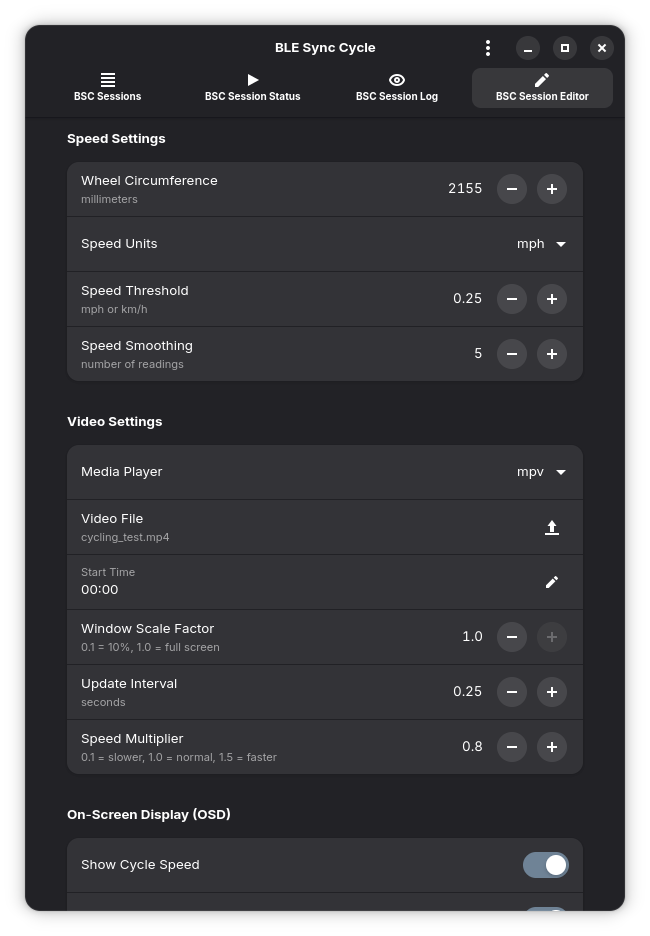
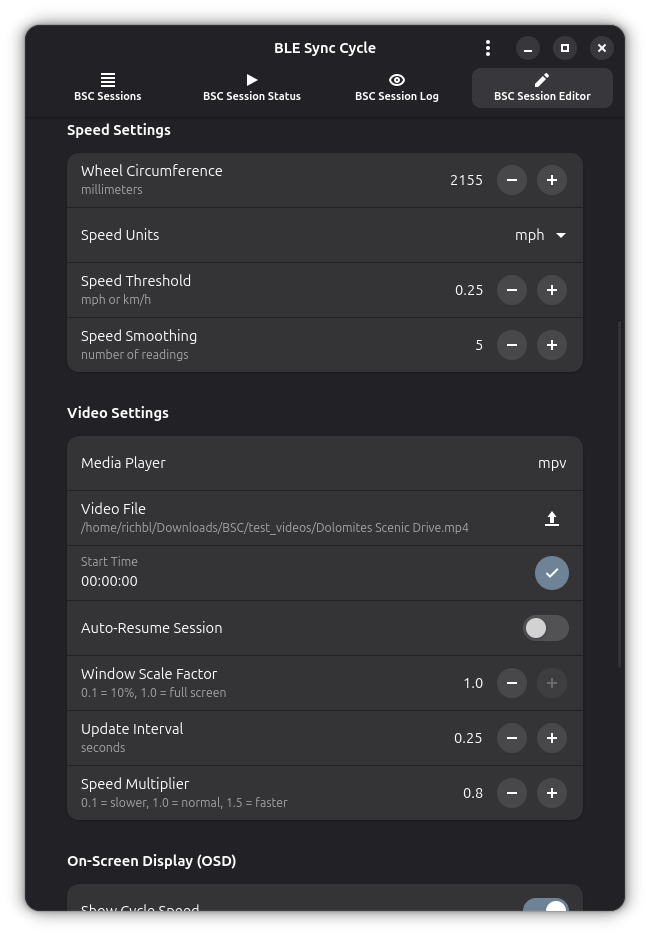
feat(app): :sparkles: Add new AutoResume feature in TOML configuration file to track session progressions

diff --git a/ui/ui_session_status.go b/ui/ui_session_status.go
@@ -8,6 +8,7 @@ import (
 
 	"github.com/diamondburned/gotk4/pkg/core/glib"
 	"github.com/richbl/go-ble-sync-cycle/internal/ble"
+	"github.com/richbl/go-ble-sync-cycle/internal/config"
 	"github.com/richbl/go-ble-sync-cycle/internal/logger"
 	"github.com/richbl/go-ble-sync-cycle/internal/session"
 	"github.com/richbl/go-ble-sync-cycle/internal/video"
@@ -133,24 +134,50 @@ func (sc *SessionController) handleStartError(err error) {
 // handleStop processes stopping the session
 func (sc *SessionController) handleStop() error {
 
+	// Determine if Auto-Resume was enabled when this session was initially started
+	runningCfg := sc.SessionManager.ActiveConfig()
+	shouldAutoResume := false
+	autoResumeSaved := false
+	var currentPos string
+
+	// If Auto-Resume is enabled, get the current playback position
+	if runningCfg != nil && runningCfg.Video.AutoResume {
+		shouldAutoResume = true
+		currentPos = sc.SessionManager.VideoPlaybackPosition()
+	}
+
+	// Get the path of the session that is currently running
+	activePath := sc.SessionManager.LoadedConfigPath()
+
+	// Terminate the active controllers and hardware polling loops
 	if err := sc.SessionManager.StopSession(); err != nil {
 		return fmt.Errorf(errFormat, "unable to stop session services", err)
 	}
 
 	logger.Debug(logger.BackgroundCtx, logger.GUI, "session services stopped")
 
+	// If Auto-Resume is enabled and we have a valid playback position, save it to the config
+	if shouldAutoResume && currentPos != "" && currentPos != "00:00:00" {
+		autoResumeSaved = sc.saveAutoResumePosition(activePath, currentPos)
+	}
+
 	safeUpdateUI(func() {
 		sc.updateSessionControlButton(false)
 		sc.updatePage2Status(StatusStopped, StatusNotConnected, StatusUnknown)
 		sc.resetMetrics()
 
-		// User edited the running session! (so update the details)
-		if cfg := sc.SessionManager.ActiveConfig(); cfg != nil {
-			sc.UI.Page2.SessionNameRow.SetSubtitle(cfg.App.SessionTitle)
+		// User edited the running session! (so update the details using latest config)
+		if c := sc.SessionManager.ActiveConfig(); c != nil {
+			sc.UI.Page2.SessionNameRow.SetSubtitle(c.App.SessionTitle)
 		}
 
-		path := sc.SessionManager.LoadedConfigPath()
-		sc.UI.Page2.SessionFileLocationRow.SetSubtitle(path)
+		sc.UI.Page2.SessionFileLocationRow.SetSubtitle(activePath)
+
+		// Safely synchronize the Session Editor UI with the new auto-resume position
+		if autoResumeSaved && sc.SessionManager.EditConfigPath() == activePath {
+			sc.populateEditor()
+		}
+
 	})
 
 	return nil
@@ -191,6 +218,33 @@ func (sc *SessionController) startSessionGUI() {
 		sc.startMetricsLoop()
 	})
 
+}
+
+// saveAutoResumePosition persists the current playback position to the session configuration
+func (sc *SessionController) saveAutoResumePosition(path, pos string) bool {
+
+	cfg := sc.SessionManager.ActiveConfig()
+	if cfg == nil {
+		return false
+	}
+
+	// Merge just the playback position into the freshest config
+	cfg.Video.SeekToPosition = pos
+
+	if err := config.Save(path, cfg, config.GetVersion()); err != nil {
+		logger.Error(logger.BackgroundCtx, logger.GUI, fmt.Sprintf("failed to save auto-resume position: %v", err))
+
+		return false
+	}
+
+	logger.Info(logger.BackgroundCtx, logger.GUI, "auto-resume position saved: "+pos)
+
+	// Only synchronize if the user is editing the same session that was just stopped
+	if sc.SessionManager.EditConfigPath() == path {
+		sc.handleLoadedSessionUpdate(path, cfg)
+	}
+
+	return true
 }
 
 // updatePage2WithSession refreshes Page 2 UI elements with the given session data

diff --git a/internal/video/media_player.go b/internal/video/media_player.go
@@ -78,6 +78,7 @@ type mediaPlayer interface {
 	setSpeed(speed float64) error
 	setPause(paused bool) error
 	timeRemaining() (int64, error)
+	playbackPosition() (int64, error)
 	terminatePlayer()
 
 	// Configuration methods
@@ -138,6 +139,7 @@ func queryGuarded[T any](mu *sync.RWMutex, isNil func() bool, action func() (T, 
 func parseTimePosition(position string) (int, error) {
 
 	position = strings.TrimSpace(position)
+
 	totalSeconds, err := parseHHMMSS(position)
 	if err != nil {
 		return 0, err
@@ -149,25 +151,27 @@ func parseTimePosition(position string) (int, error) {
 // parseHHMMSS parses "HH:MM:SS" time format and returns total seconds
 func parseHHMMSS(position string) (int64, error) {
 
+	// Parse the time string into components
 	parts := strings.Split(position, ":")
 	if len(parts) != 3 {
 		return 0, fmt.Errorf(errFormat, position, errInvalidTimeFormat)
 	}
 
-	hours, err := strconv.ParseInt(parts[0], 10, 64)
-	if err != nil || hours < 0 || hours > 99 {
-		return 0, fmt.Errorf(errFormat, position, errInvalidTimeFormat)
+	// Set limits and multipliers for hours, minutes, and seconds
+	var totalSeconds int64
+	limits := []int64{99, 59, 59}
+	multipliers := []int64{3600, 60, 1}
+
+	// Parse each part of the time string and calculate total seconds
+	for i, part := range parts {
+
+		val, err := strconv.ParseInt(part, 10, 64)
+		if err != nil || val < 0 || val > limits[i] {
+			return 0, fmt.Errorf(errFormat, position, errInvalidTimeFormat)
+		}
+
+		totalSeconds += val * multipliers[i]
 	}
 
-	minutes, err := strconv.ParseInt(parts[1], 10, 64)
-	if err != nil || minutes < 0 || minutes > 59 {
-		return 0, fmt.Errorf(errFormat, position, errInvalidTimeFormat)
-	}
-
-	seconds, err := strconv.ParseInt(parts[2], 10, 64)
-	if err != nil || seconds < 0 || seconds > 59 {
-		return 0, fmt.Errorf(errFormat, position, errInvalidTimeFormat)
-	}
-
-	return (hours * 3600) + (minutes * 60) + seconds, nil
+	return totalSeconds, nil
 }

diff --git a/internal/config/config_toml.go b/internal/config/config_toml.go
@@ -32,6 +32,7 @@ const ConfigTemplate = `# BLE Sync Cycle Configuration (TOML)
   media_player = "{{.Video.MediaPlayer}}"{{pad (printf "media_player = \"%s\"" .Video.MediaPlayer)}}# The video playback back-end to use ("mpv")
   file_path = "{{.Video.FilePath}}"{{pad (printf "file_path = \"%s\"" .Video.FilePath)}}# File path to the video file for playback
   seek_to_position = "{{.Video.SeekToPosition}}"{{pad (printf "seek_to_position = \"%s\"" .Video.SeekToPosition)}}# Starting playback position in the video ("HH:MM:SS")
+  auto_resume = {{.Video.AutoResume}}{{pad (printf "auto_resume = %t" .Video.AutoResume)}}# Resume video playback from last playback position (true/false)
   window_scale_factor = {{printf "%.1f" .Video.WindowScaleFactor}}{{pad (printf "window_scale_factor = %.1f" .Video.WindowScaleFactor)}}# Scales the size of the video window (0.1-1.0, where 1.0 = full screen)
   update_interval_secs = {{printf "%.1f" .Video.UpdateIntervalSec}}{{pad (printf "update_interval_secs = %.1f" .Video.UpdateIntervalSec)}}# Frequency that the video player is sent speed updates (0.10-3.00 seconds)
   speed_multiplier = {{printf "%.1f" .Video.SpeedMultiplier}}{{pad (printf "speed_multiplier = %.1f" .Video.SpeedMultiplier)}}# Multiplier to control video playback rate (0.1-1.5, where 0.1 = slower, 1.0 = normal, 1.5 = faster playback)
@@ -78,7 +79,7 @@ func Save(filePath string, cfg *Config, version string) error {
 	// Create the template data
 	templateData := tomlContent{
 		Config:  cfg,
-		Version: "v" + version,
+		Version: version,
 	}
 
 	// Merge the data with the template

diff --git a/ui/ui.go b/ui/ui.go
@@ -86,13 +86,14 @@ type PageSessionEditor struct {
 	SpeedSmoothing     *adw.SpinRow
 
 	// Video Settings
-	MediaPlayer     *adw.ComboRow
-	VideoFileRow    *adw.ActionRow
-	VideoFileButton *gtk.Button
-	StartTimeEntry  *adw.EntryRow
-	WindowScale     *adw.SpinRow
-	UpdateInterval  *adw.SpinRow
-	SpeedMultiplier *adw.SpinRow
+	MediaPlayer      *adw.ComboRow
+	VideoFileRow     *adw.ActionRow
+	VideoFileButton  *gtk.Button
+	StartTimeEntry   *adw.EntryRow
+	SwitchAutoResume *adw.SwitchRow
+	WindowScale      *adw.SpinRow
+	UpdateInterval   *adw.SpinRow
+	SpeedMultiplier  *adw.SpinRow
 
 	// OSD
 	SwitchCycleSpeed    *adw.SwitchRow
@@ -272,6 +273,7 @@ func hydrateSessionEditor(builder *gtk.Builder) *PageSessionEditor {
 		SwitchCycleSpeed:    objGTK[*adw.SwitchRow](builder, "display_cycle_speed_switch"),
 		SwitchPlaybackSpeed: objGTK[*adw.SwitchRow](builder, "display_playback_speed_switch"),
 		SwitchTimeRemaining: objGTK[*adw.SwitchRow](builder, "display_time_remaining_switch"),
+		SwitchAutoResume:    objGTK[*adw.SwitchRow](builder, "auto_resume_switch"),
 		FontSize:            objGTK[*adw.SpinRow](builder, "display_font_size_spin"),
 		MarginLeft:          objGTK[*adw.SpinRow](builder, "pixel_offset_left_spin"),
 		MarginTop:           objGTK[*adw.SpinRow](builder, "pixel_offset_top_spin"),

diff --git a/ui/ui_session_edit.go b/ui/ui_session_edit.go
@@ -140,6 +140,7 @@ func (sc *SessionController) populateEditor() {
 	p4.MediaPlayer.SetSelected(indexOf(cfg.Video.MediaPlayer, mediaPlayers))
 	p4.VideoFileRow.SetSubtitle(cfg.Video.FilePath)
 	p4.StartTimeEntry.SetText(cfg.Video.SeekToPosition)
+	p4.SwitchAutoResume.SetActive(cfg.Video.AutoResume)
 	p4.WindowScale.SetValue(cfg.Video.WindowScaleFactor)
 	p4.UpdateInterval.SetValue(cfg.Video.UpdateIntervalSec)
 	p4.SpeedMultiplier.SetValue(cfg.Video.SpeedMultiplier)
@@ -203,6 +204,7 @@ func (sc *SessionController) harvestEditor() *config.Config {
 	cfg.Video.MediaPlayer = mediaPlayers[p4.MediaPlayer.Selected()]
 	cfg.Video.FilePath = p4.VideoFileRow.Subtitle()
 	cfg.Video.SeekToPosition = p4.StartTimeEntry.Text()
+	cfg.Video.AutoResume = p4.SwitchAutoResume.Active()
 	cfg.Video.WindowScaleFactor = p4.WindowScale.Value()
 	cfg.Video.UpdateIntervalSec = p4.UpdateInterval.Value()
 	cfg.Video.SpeedMultiplier = p4.SpeedMultiplier.Value()

diff --git a/internal/video/mpv_player.go b/internal/video/mpv_player.go
@@ -364,6 +364,29 @@ func (m *mpvPlayer) timeRemaining() (int64, error) {
 	})
 }
 
+// playbackPosition gets the current elapsed time of the video
+func (m *mpvPlayer) playbackPosition() (int64, error) {
+
+	return queryGuarded(&m.mu, func() bool { return m.player == nil }, func() (int64, error) {
+
+		if m.player == nil {
+			return 0, errPlayerNotInitialized
+		}
+
+		timePos, err := m.player.GetProperty("time-pos", mpv.FormatDouble)
+		if err != nil {
+			return 0, fmt.Errorf(errFormat, "failed to get video playback position", err)
+		}
+
+		timePosFloat, ok := timePos.(float64)
+		if !ok {
+			return 0, errInvalidTimeFormat
+		}
+
+		return int64(timePosFloat), nil
+	})
+}
+
 // setPlaybackSize sets media player window size
 func (m *mpvPlayer) setPlaybackSize(windowSize float64) error {
 

diff --git a/internal/video/video_controller_test.go b/internal/video/video_controller_test.go
@@ -31,6 +31,8 @@ type mockMediaPlayer struct {
 	showTextErr          error
 	remainingTime        int64
 	remainingTimeErr     error
+	playbackPos          int64
+	playbackPosErr       error
 	eventChan            chan *playerEvent
 }
 
@@ -214,6 +216,14 @@ func (m *mockMediaPlayer) timeRemaining() (int64, error) {
 	m.recordCall("timeRemaining")
 
 	return m.remainingTime, m.remainingTimeErr
+}
+
+// playbackPosition gets the current elapsed time of the video
+func (m *mockMediaPlayer) playbackPosition() (int64, error) {
+
+	m.recordCall("playbackPosition")
+
+	return m.playbackPos, m.playbackPosErr
 }
 
 // waitEvent waits for a player event or times out

diff --git a/internal/session/controllers.go b/internal/session/controllers.go
@@ -251,6 +251,25 @@ func (m *StateManager) VideoTimeRemaining() string {
 	return timeStr
 }
 
+// VideoPlaybackPosition returns the formatted current playback position (HH:MM:SS)
+func (m *StateManager) VideoPlaybackPosition() string {
+
+	defer m.readLock()()
+
+	noTime := "00:00:00"
+
+	if m.controllers == nil || m.controllers.videoPlayer == nil {
+		return noTime
+	}
+
+	timeStr, err := m.controllers.videoPlayer.PlaybackPosition()
+	if err != nil {
+		return noTime
+	}
+
+	return timeStr
+}
+
 // VideoPlaybackRate returns the current video playback multiplier (e.g. 1.0x)
 func (m *StateManager) VideoPlaybackRate() float64 {
 

diff --git a/internal/video/video_controller.go b/internal/video/video_controller.go
@@ -136,6 +136,17 @@ func (p *PlaybackController) TimeRemaining() (string, error) {
 	return formatSeconds(seconds), nil
 }
 
+// PlaybackPosition returns the current playback position in the video
+func (p *PlaybackController) PlaybackPosition() (string, error) {
+
+	seconds, err := p.player.playbackPosition()
+	if err != nil {
+		return "00:00:00", err
+	}
+
+	return formatSeconds(seconds), nil
+}
+
 // PlaybackSpeed returns the current calculated playback rate multiplier
 func (p *PlaybackController) PlaybackSpeed() float64 {
 

diff --git a/internal/session/session.go b/internal/session/session.go
@@ -94,9 +94,11 @@ func (m *StateManager) LoadTargetSession(configPath string) error {
 	m.loadedConfig = cfg
 	m.loadedConfigPath = configPath
 
-	// When loading a session to run, we also queue it for editing
-	m.editConfig = cfg
-	m.editConfigPath = configPath
+	// Only set the editConfig if nothing is currently loaded in the editor (e.g., at startup)
+	if m.editConfig == nil {
+		m.editConfig = cfg
+		m.editConfigPath = configPath
+	}
 
 	m.errorMsg = ""
 	if m.state == StateIdle || m.state == StateError {

diff --git a/internal/services/shutdown_manager.go b/internal/services/shutdown_manager.go
@@ -42,6 +42,7 @@ func NewShutdownManager(timeout time.Duration) *ShutdownManager {
 	logger.Debug(logger.BackgroundCtx, logger.APP, fmt.Sprintf("creating ShutdownManager object (id:%04d)...", instanceID))
 
 	// Create a context with a timeout
+	//nolint:gosec // ShutdownManager explicitly owns this cancellation lifecycle
 	ctx, cancel := context.WithCancel(logger.BackgroundCtx)
 	logger.Debug(logger.BackgroundCtx, logger.APP, fmt.Sprintf("created ShutdownManager object (id:%04d)", instanceID))
 

diff --git a/internal/config/config_video.go b/internal/config/config_video.go
@@ -13,6 +13,7 @@ type VideoConfig struct {
 	WindowScaleFactor float64        `toml:"window_scale_factor"`
 	UpdateIntervalSec float64        `toml:"update_interval_secs"`
 	SpeedMultiplier   float64        `toml:"speed_multiplier"`
+	AutoResume        bool           `toml:"auto_resume"`
 	OnScreenDisplay   VideoOSDConfig `toml:"OSD"`
 }
 
